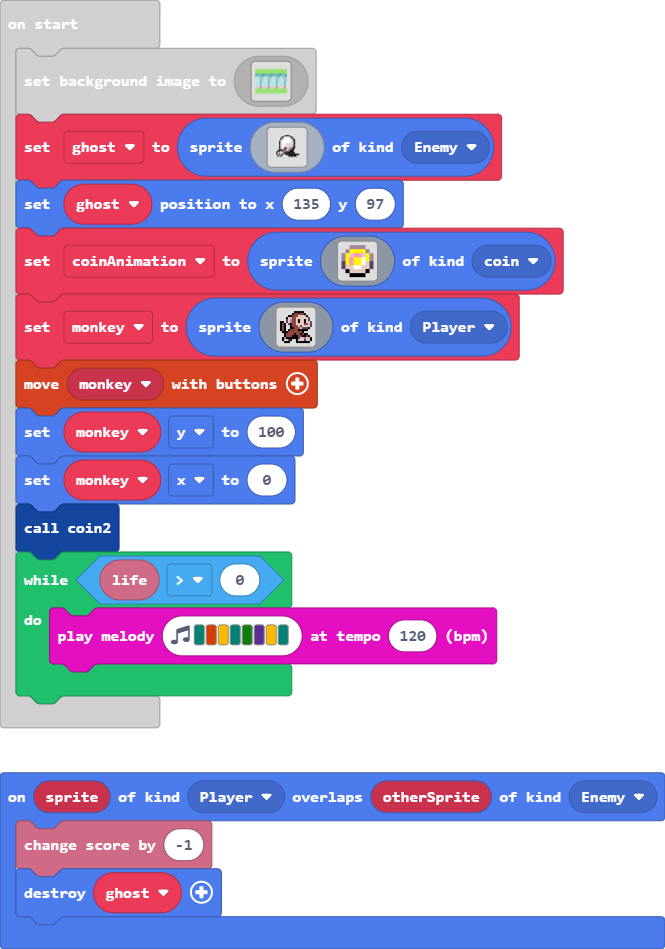
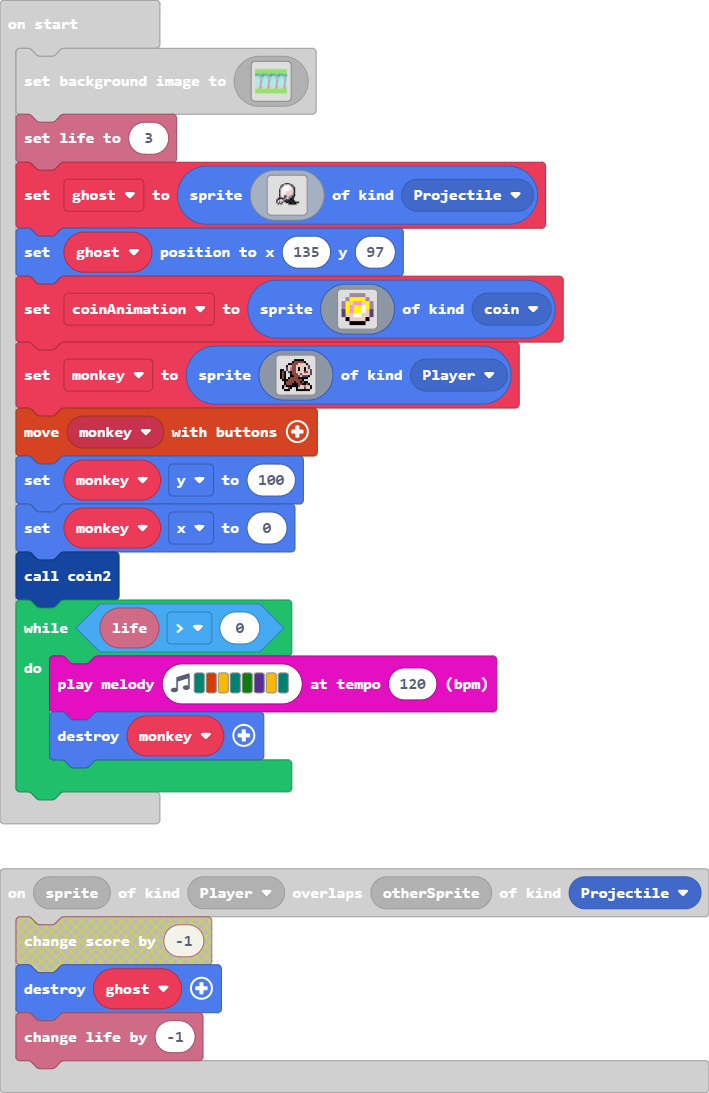
Update main.blocks, main.ts

diff --git a/main.ts b/main.ts
@@ -70,6 +70,10 @@ function coin2 () {
     true
     )
 }
+sprites.onOverlap(SpriteKind.Player, SpriteKind.Projectile, function (sprite, otherSprite) {
+    info.changeLifeBy(-1)
+    ghost.destroy()
+})
 sprites.onOverlap(SpriteKind.Player, SpriteKind.coin, function (sprite, otherSprite) {
     info.changeScoreBy(1)
     coinAnimation.destroy()
@@ -82,10 +86,6 @@ function jump () {
     monkey.setVelocity(0, 0)
     monkey.y = 100
 }
-sprites.onOverlap(SpriteKind.Player, SpriteKind.Enemy, function (sprite, otherSprite) {
-    info.changeScoreBy(-1)
-    ghost.destroy()
-})
 let monkey: Sprite = null
 let coinAnimation: Sprite = null
 let ghost: Sprite = null
@@ -211,6 +211,7 @@ scene.setBackgroundImage(img`
     7777777777777777777777777777777777777777777777777777777777777777777777777777777777777777777777777777777777777777777777777777777777777777777777777777777777777777
     7777777777777777777777777777777777777777777777777777777777777777777777777777777777777777777777777777777777777777777777777777777777777777777777777777777777777777
     `)
+info.setLife(3)
 ghost = sprites.create(img`
     ........................
     ........................
@@ -236,7 +237,7 @@ ghost = sprites.create(img`
     ........................
     ........................
     ........................
-    `, SpriteKind.Enemy)
+    `, SpriteKind.Projectile)
 ghost.setPosition(135, 97)
 coinAnimation = sprites.create(img`
     . . b b b b . . 
@@ -272,4 +273,5 @@ monkey.x = 0
 coin2()
 while (info.life() > 0) {
     music.playMelody("F B A F G D A F ", 120)
+    monkey.destroy()
 }
